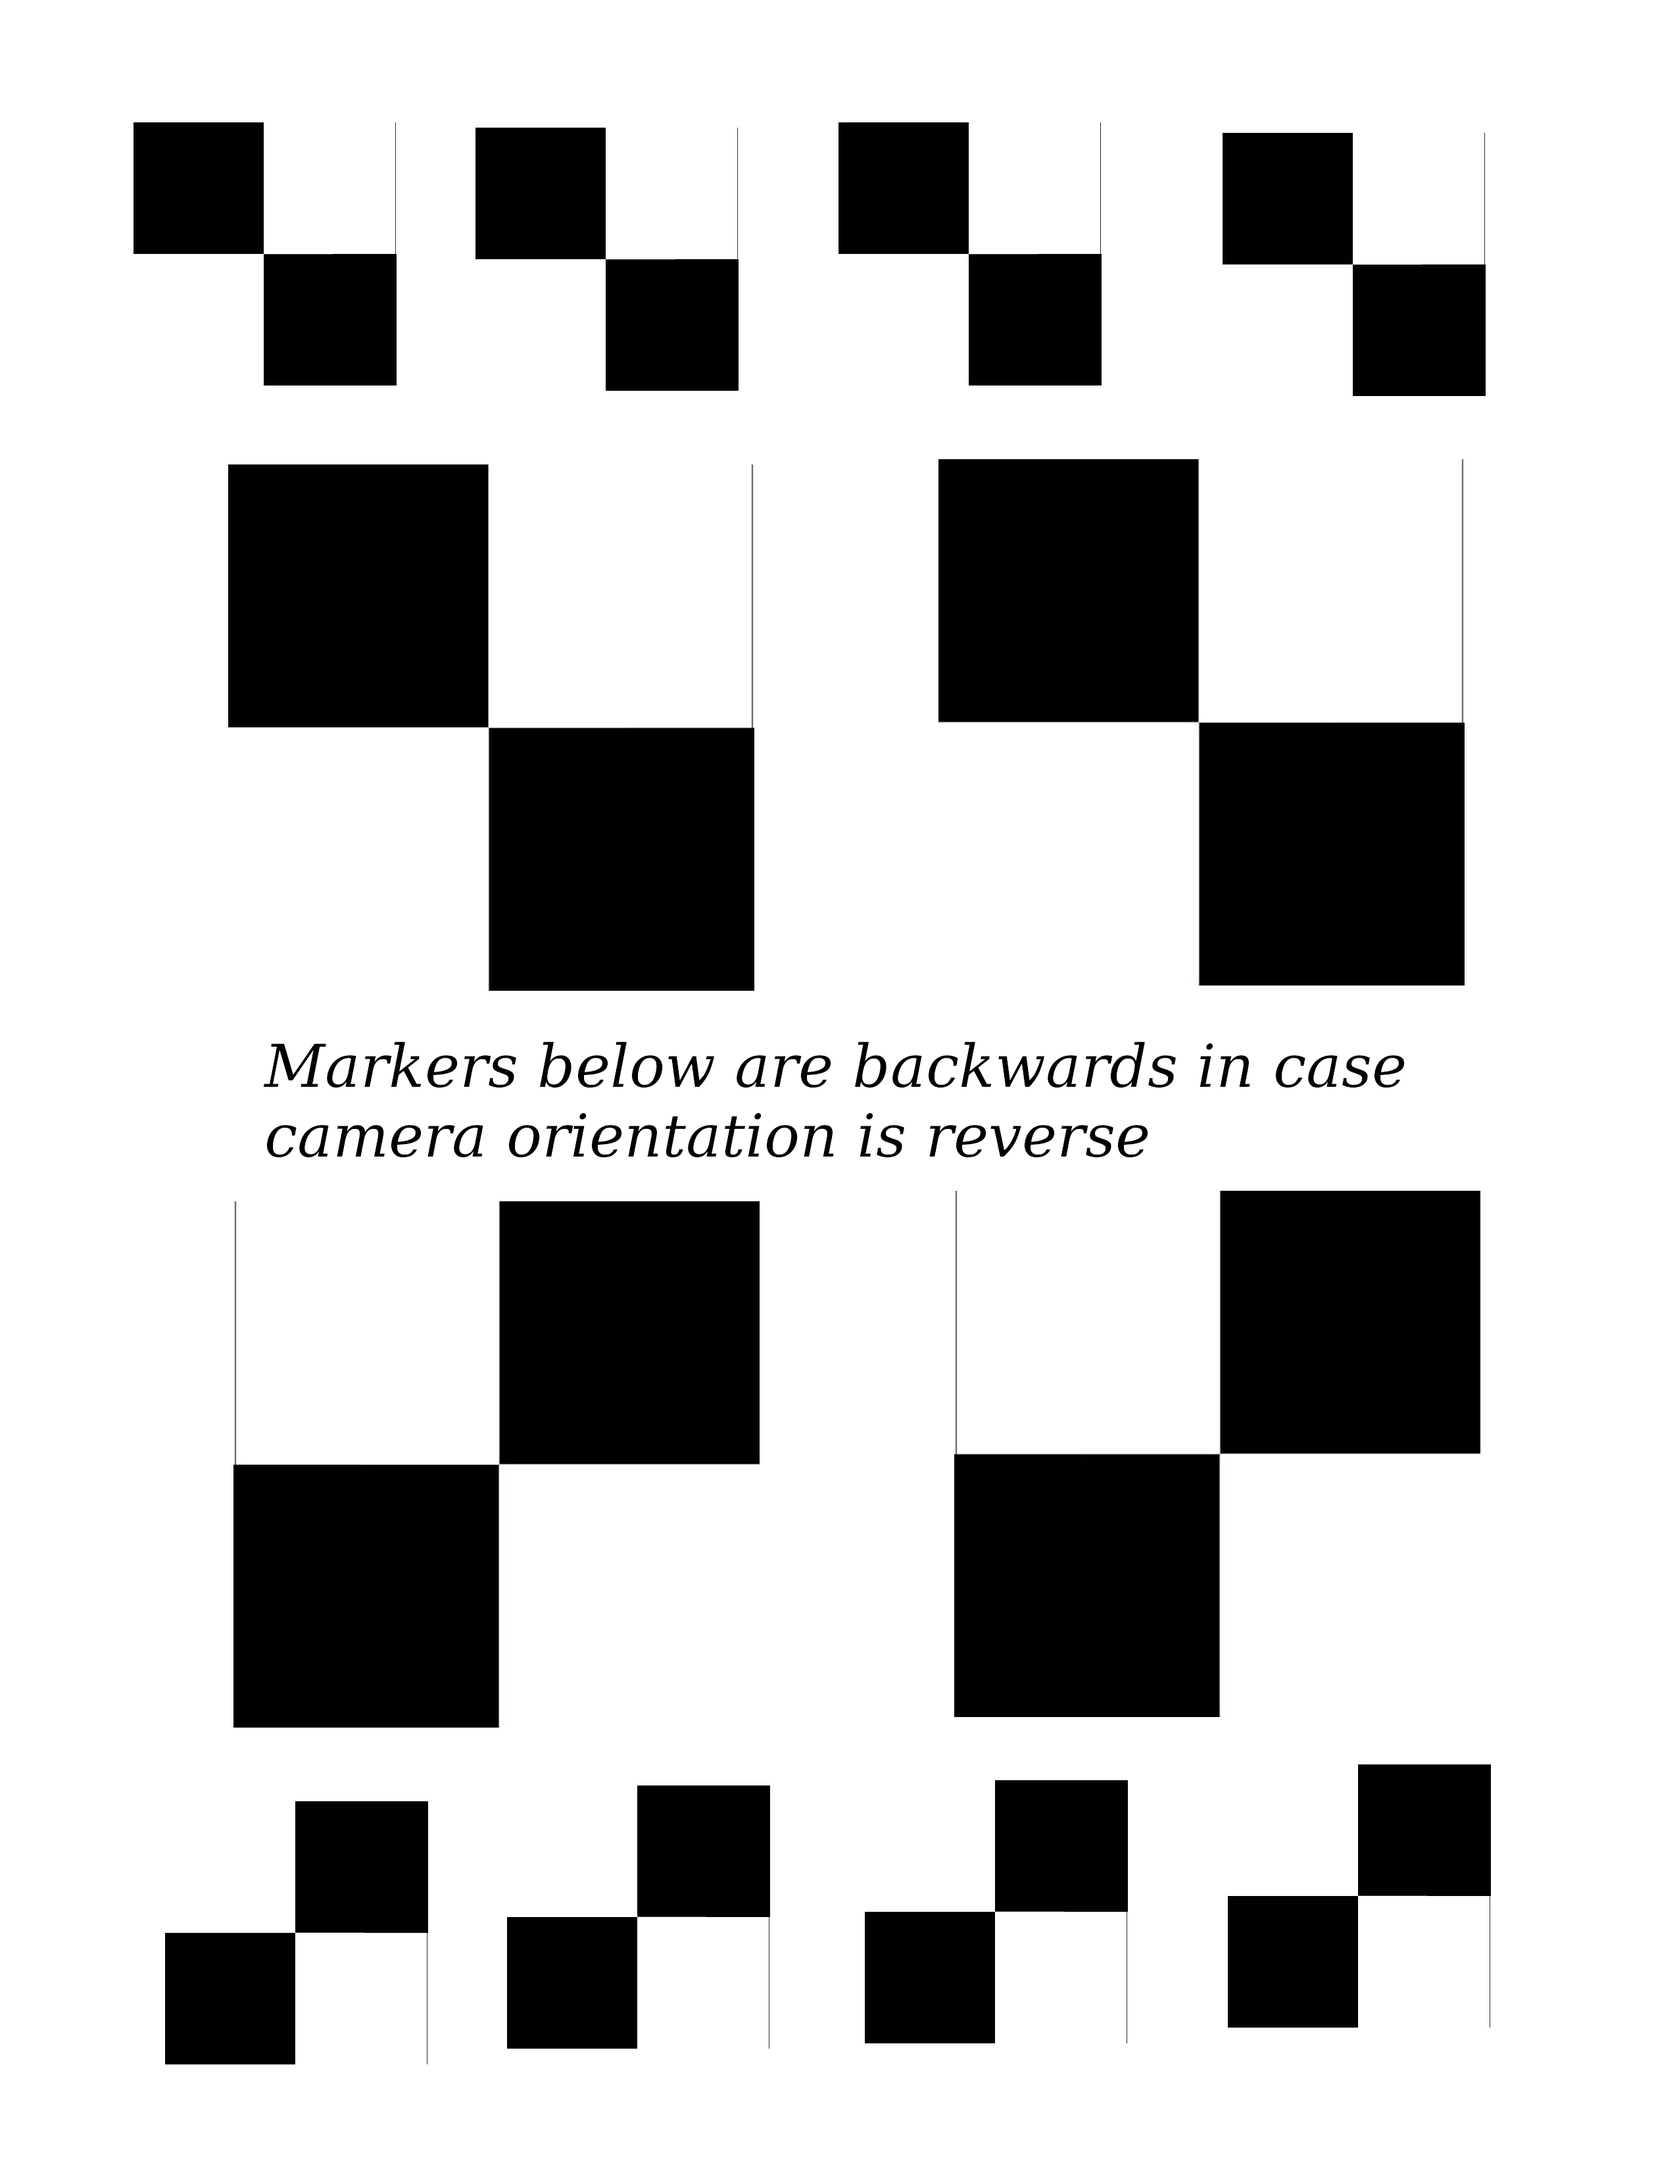
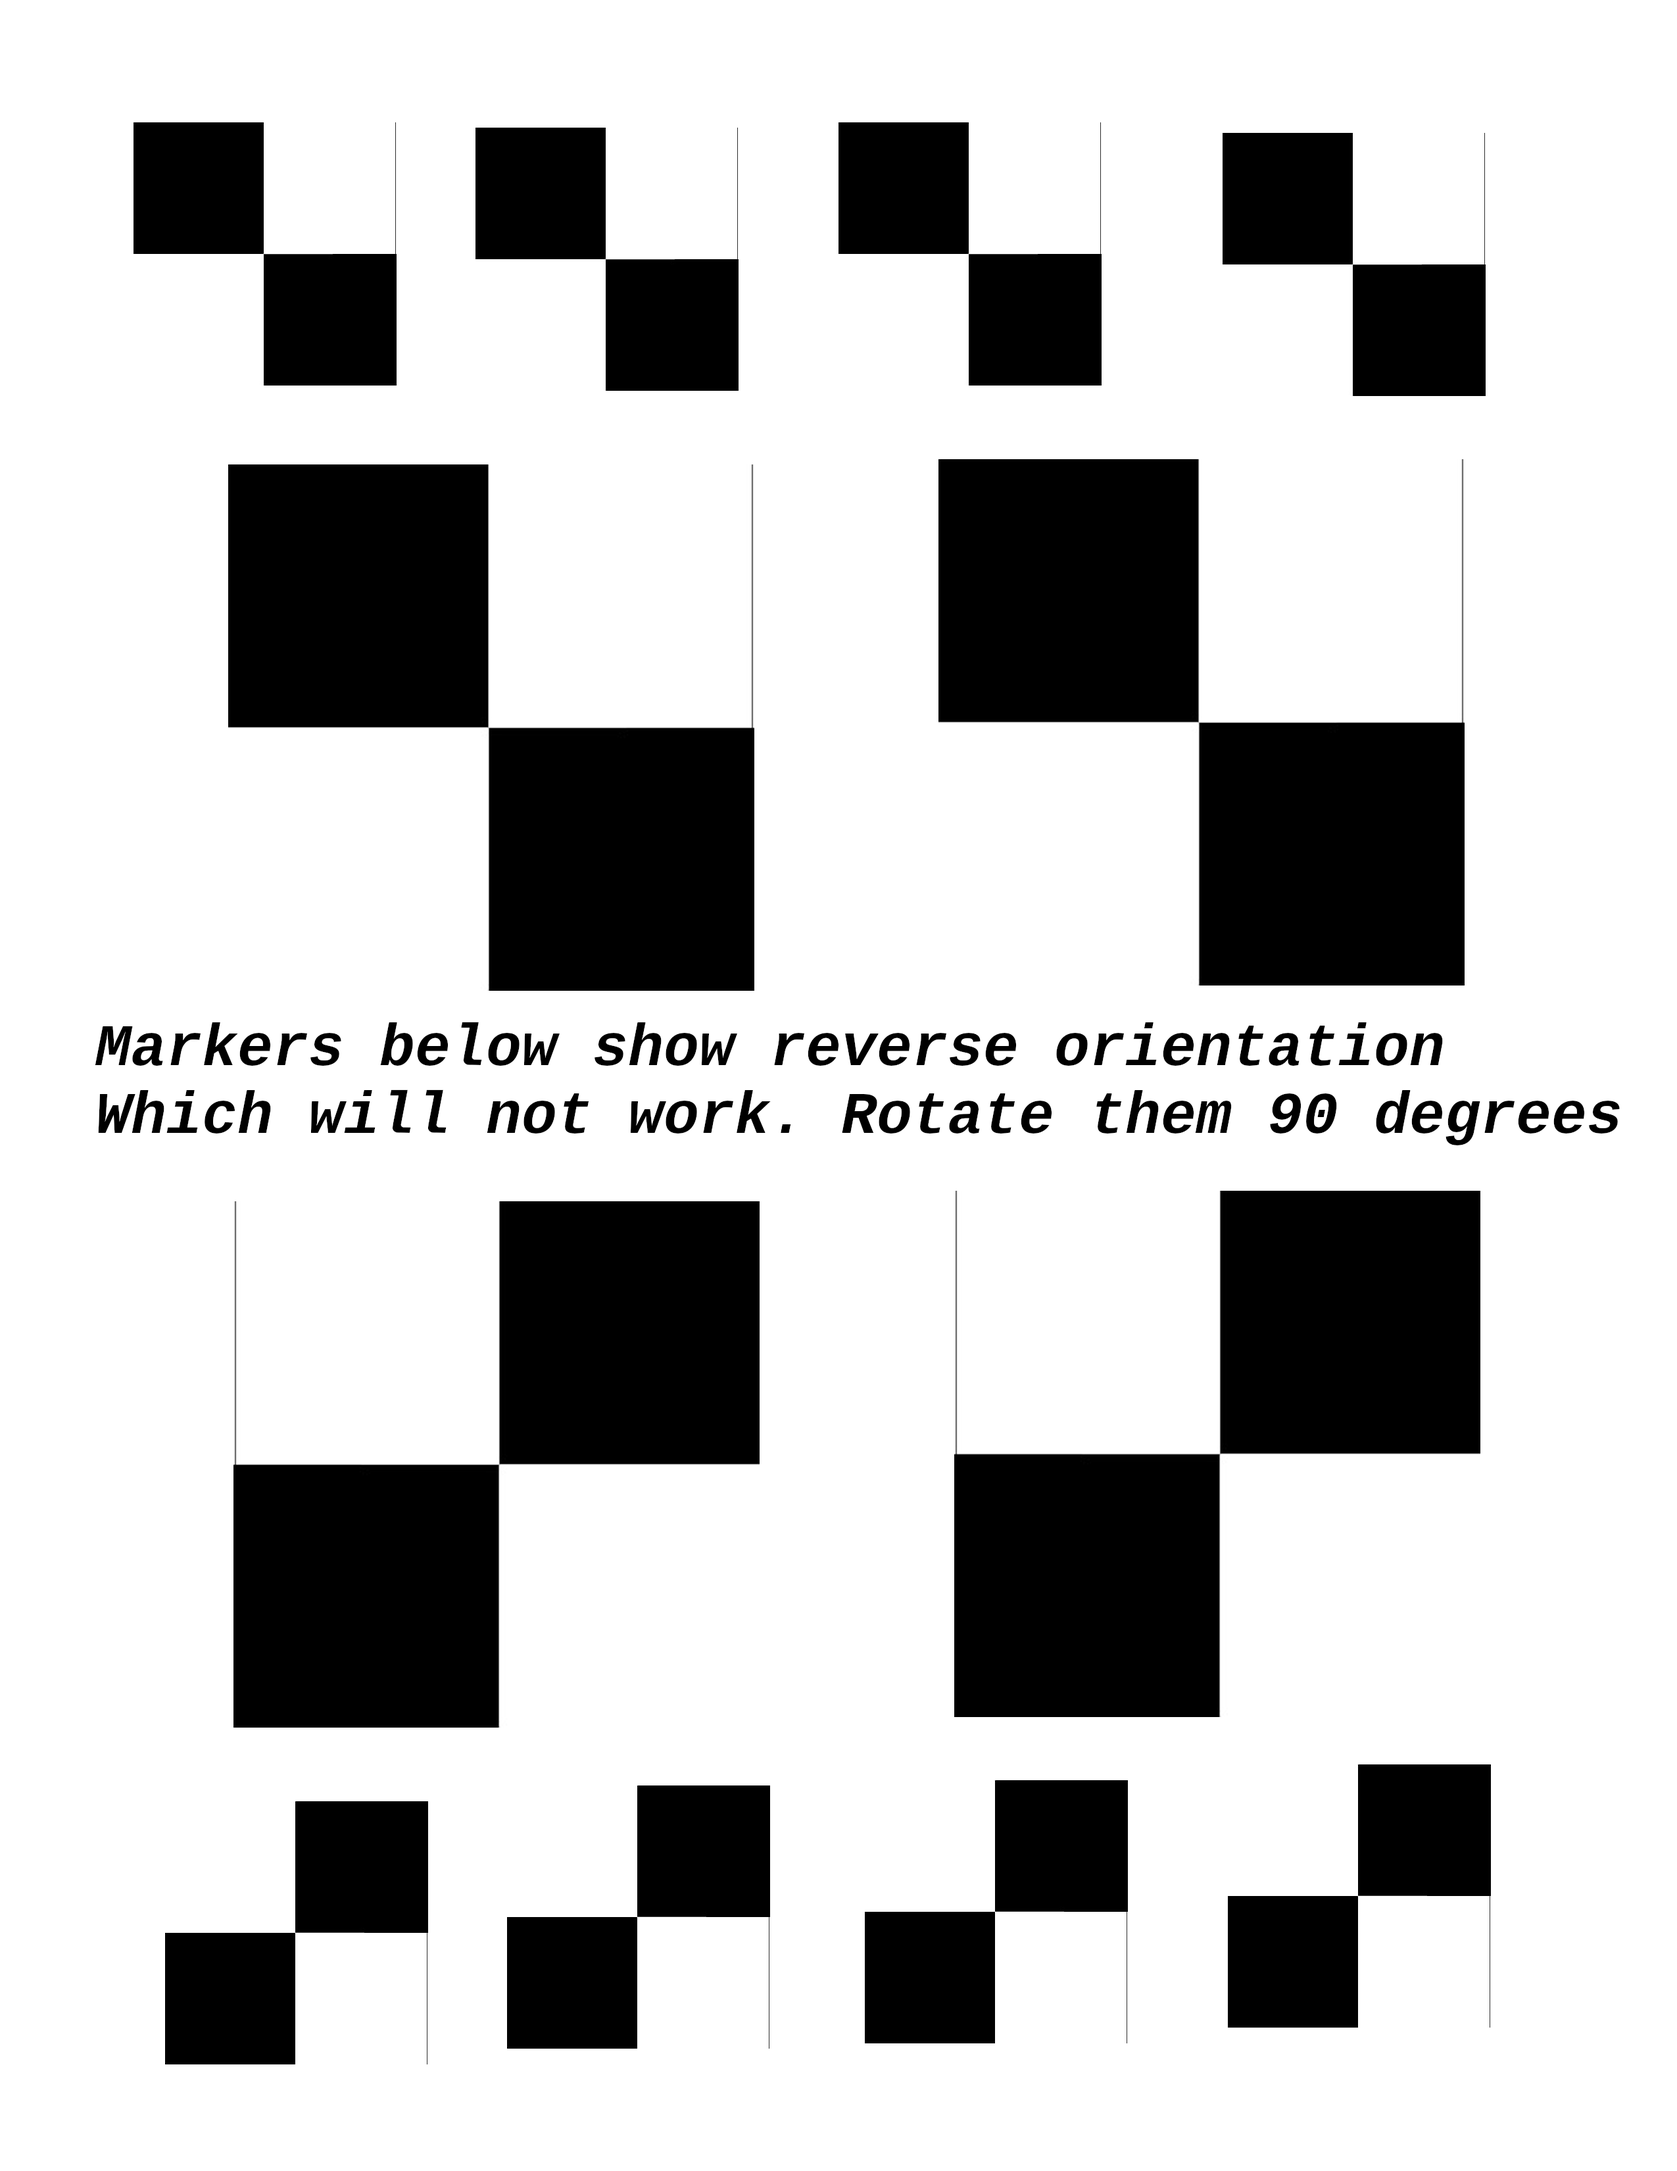
Slight fix to marker center and added a cap image for example of a tracker cap that works.

Changed region(s): [[0.062, 0.4682, 0.9604, 0.5306]]

diff --git a/WebCam/Tracker.cs b/WebCam/Tracker.cs
@@ -38,7 +38,7 @@ namespace WebCam
         /// <summary>This is the final marker locations once all processing is done</summary>
         Point[] Markers;
         /// <summary>Size of the marker that is being generated and searched for</summary>
-        int markerSize;
+        public int markerSize;
         /// <summary>How close the sum of pixels needs to match the tracker to be considered a possablitly</summary>
         public float minimumPositive = 0.3f;
         /// <summary>Holds all the locations that give a value above minimumPositive</summary>
@@ -85,6 +85,8 @@ namespace WebCam
         [MethodImpl(MethodImplOptions.AggressiveInlining)]
         public void Find(ImageBuffer buffer)
         {
+            PossibleMarkers = new List<match>();
+
             ImageBufferToIntensity(buffer); 
         }
         #endregion
@@ -171,7 +173,6 @@ namespace WebCam
             int hY = markerSize / 2;
             float div = hX * hY * 2;
 
-            PossibleMarkers = new List<match>();
             for (int y = markerSize; y < height; y++)
             {
                 for (int x = markerSize; x < width; x++)
@@ -210,15 +211,18 @@ namespace WebCam
         [MethodImpl(MethodImplOptions.AggressiveInlining)]
         void ProcessPossibleMarkers()
         {
-            int distance = 4; //4 pixels
+            int distance = markerSize/2; 
             int Marker1 = -1;
             int Marker2 = -1;
             if (PossibleMarkers.Count > 0)
             {
                 List<Point> p = new List<Point>();
                 List<float> total = new List<float>();
+                List<int> count = new List<int>();
                 p.Add(PossibleMarkers[0].point);
                 total.Add(PossibleMarkers[0].score);
+                count.Add(1);
+
                 bool bMatch = false;
                 for (int i = 1; i < PossibleMarkers.Count; i++)
                 {
@@ -231,6 +235,12 @@ namespace WebCam
                             {
                                 bMatch = true;
                                 total[j] += PossibleMarkers[i].score;
+
+                                //Get the best x,y position
+                                if (PossibleMarkers[i].score>(total[j]/count[j]))
+                                    p[j] = new Point(PossibleMarkers[i].point.X, PossibleMarkers[i].point.Y);
+
+                                count[j] += 1;
                                 break;
 
                             }
@@ -240,10 +250,13 @@ namespace WebCam
                     {
                         p.Add(PossibleMarkers[i].point);
                         total.Add(PossibleMarkers[i].score);
+                        count.Add(1);
                     }
                 }
 
+                //Holds the highest match value
                 float max = -1;
+                //Holds the 2nd highest match value
                 float secondMax = -1;
 
                 for (int j = 0; j < p.Count; j++)
@@ -262,6 +275,7 @@ namespace WebCam
                         Marker2 = j;
                     }
                 }
+
                 if (Marker1 != -1)
                 {
                     if (Marker2 != -1)

diff --git a/WebCam/Procesor.cs b/WebCam/Procesor.cs
@@ -56,7 +56,7 @@ namespace WebCam
         {
             pMem = pBuffer;
             buffer[current].CopyImageFromPointer(pMem);
-
+            
             tracker.Find(buffer[current]);
 
             if (ShowDebug)
@@ -72,6 +72,7 @@ namespace WebCam
             if (!ready)
                 MessageBox.Show("EndDraw() called before StartDraw()");
 
+            int half = tracker.markerSize / 2;
             #region Draw Debug
             if (ShowDebug)
             {
@@ -80,13 +81,21 @@ namespace WebCam
 
                 // Draws every point that could be a possible marker
                 foreach (Tracker.match p in tracker.PossibleMarkers)
-                    buffer[current].SetPixel(p.point.X-4,p.point.Y-4, Color.Red);
+                    buffer[current].SetPixel(p.point.X- half, p.point.Y- half, Color.Red);
             }
             #endregion
 
-            #region Draw markers on screen
-            buffer[current].DrawCircle(tracker.MarkerLocations[0], 4, Color.Green);
-            buffer[current].DrawCircle(tracker.MarkerLocations[1], 4, Color.Blue);
+            #region Draw markers on screen 
+            if (tracker.MarkerLocations[0].X > 0 && tracker.MarkerLocations[0].Y > 0)
+            {
+                buffer[current].DrawCircle(tracker.MarkerLocations[0], half, Color.Red);
+                buffer[current].SetPixel(tracker.MarkerLocations[0].X, tracker.MarkerLocations[0].Y, Color.Red);
+            }
+            if (tracker.MarkerLocations[1].X > 0 && tracker.MarkerLocations[1].Y > 0)
+            {
+                buffer[current].DrawCircle(tracker.MarkerLocations[1], half, Color.Aqua);
+                buffer[current].SetPixel(tracker.MarkerLocations[1].X, tracker.MarkerLocations[1].Y, Color.Aqua);
+            }
             buffer[current].CopyImageToPointer(pMem);
             #endregion
 

diff --git a/WebCam/ImageBuffer.cs b/WebCam/ImageBuffer.cs
@@ -313,6 +313,24 @@ namespace WebCam
                 image[i] = image[i + 1] = image[i + 2] = gray;
             }
         }
+        #endregion 
+
+        #region Black and White
+        /// <summary>Converts the image to Grey scale</summary>
+        [MethodImpl(MethodImplOptions.AggressiveInlining)]
+        public void ToBlackAndWhite()
+        {
+            for (int i = 0; i < image.Length; i += 3)
+            {
+                byte gray = (byte)(image[i + 2] * .21 + image[i + 1] * .71 + image[i] * .071);
+                if (gray < 128)
+                    gray = 0;
+                else
+                    gray = 255;
+                image[i] = image[i + 1] = image[i + 2] = gray;
+            }
+        }
+
 
         /// <summary>Converts the image to Grey scale. But any pixel that does not meet the Gray threshold is turned black</summary>
         /// <param name="threshhold">Pixels with greyscale values below this are turned black</param>

diff --git a/WebCam/Form1.Designer.cs b/WebCam/Form1.Designer.cs
@@ -74,7 +74,7 @@
             this.webCapture1.CaptureWidth = 320;
             this.webCapture1.Location = new System.Drawing.Point(2, 2);
             this.webCapture1.Name = "webCapture1";
-            this.webCapture1.ShowTrackerDebug = true;
+            this.webCapture1.ShowTrackerDebug = false;
             this.webCapture1.Size = new System.Drawing.Size(320, 240);
             this.webCapture1.TabIndex = 2;
             this.webCapture1.TrackerMarkerSize = 8;

diff --git a/WebCam/WebCapture.cs b/WebCam/WebCapture.cs
@@ -92,6 +92,7 @@ namespace WebCam
             procesor = new Procesor(CaptureWidth, CaptureHeight, TrackerMarkerSize);
             procesor.ShowDebug = ShowTrackerDebug;
             procesor.tracker.minimumPositive = TrackerMinimumMatch;
+            procesor.tracker.markerSize = TrackerMarkerSize;
 
             DsDevice[] devices = DsDevice.GetDevicesOfCat(FilterCategory.VideoInputDevice);
             // foreach (DsDevice device in devices)

diff --git a/README.md b/README.md
@@ -1,4 +1,10 @@
 # Web-Cam-Marker-Tracker
 Tracks up to 2 checker markers in a webcam.  
-Based on DirectShow.Net  
+Based on DirectShow.Net 
+Below shows a simple cap that works well with this software. The cap keeps the orientation of the markers.  
+![alt text](https://github.com/ScienceExp/Web-Cam-Marker-Tracker/blob/main/TrackerCapSide.jpg)
+  
+![alt text](https://github.com/ScienceExp/Web-Cam-Marker-Tracker/blob/main/TrackerCapFront.jpg)
+  
+Here are the trackers to ptint out. Make sure the black is as black as you can get it and the white is as white as you can get.  
 ![alt text](https://github.com/ScienceExp/Web-Cam-Marker-Tracker/blob/main/Markers.png)
